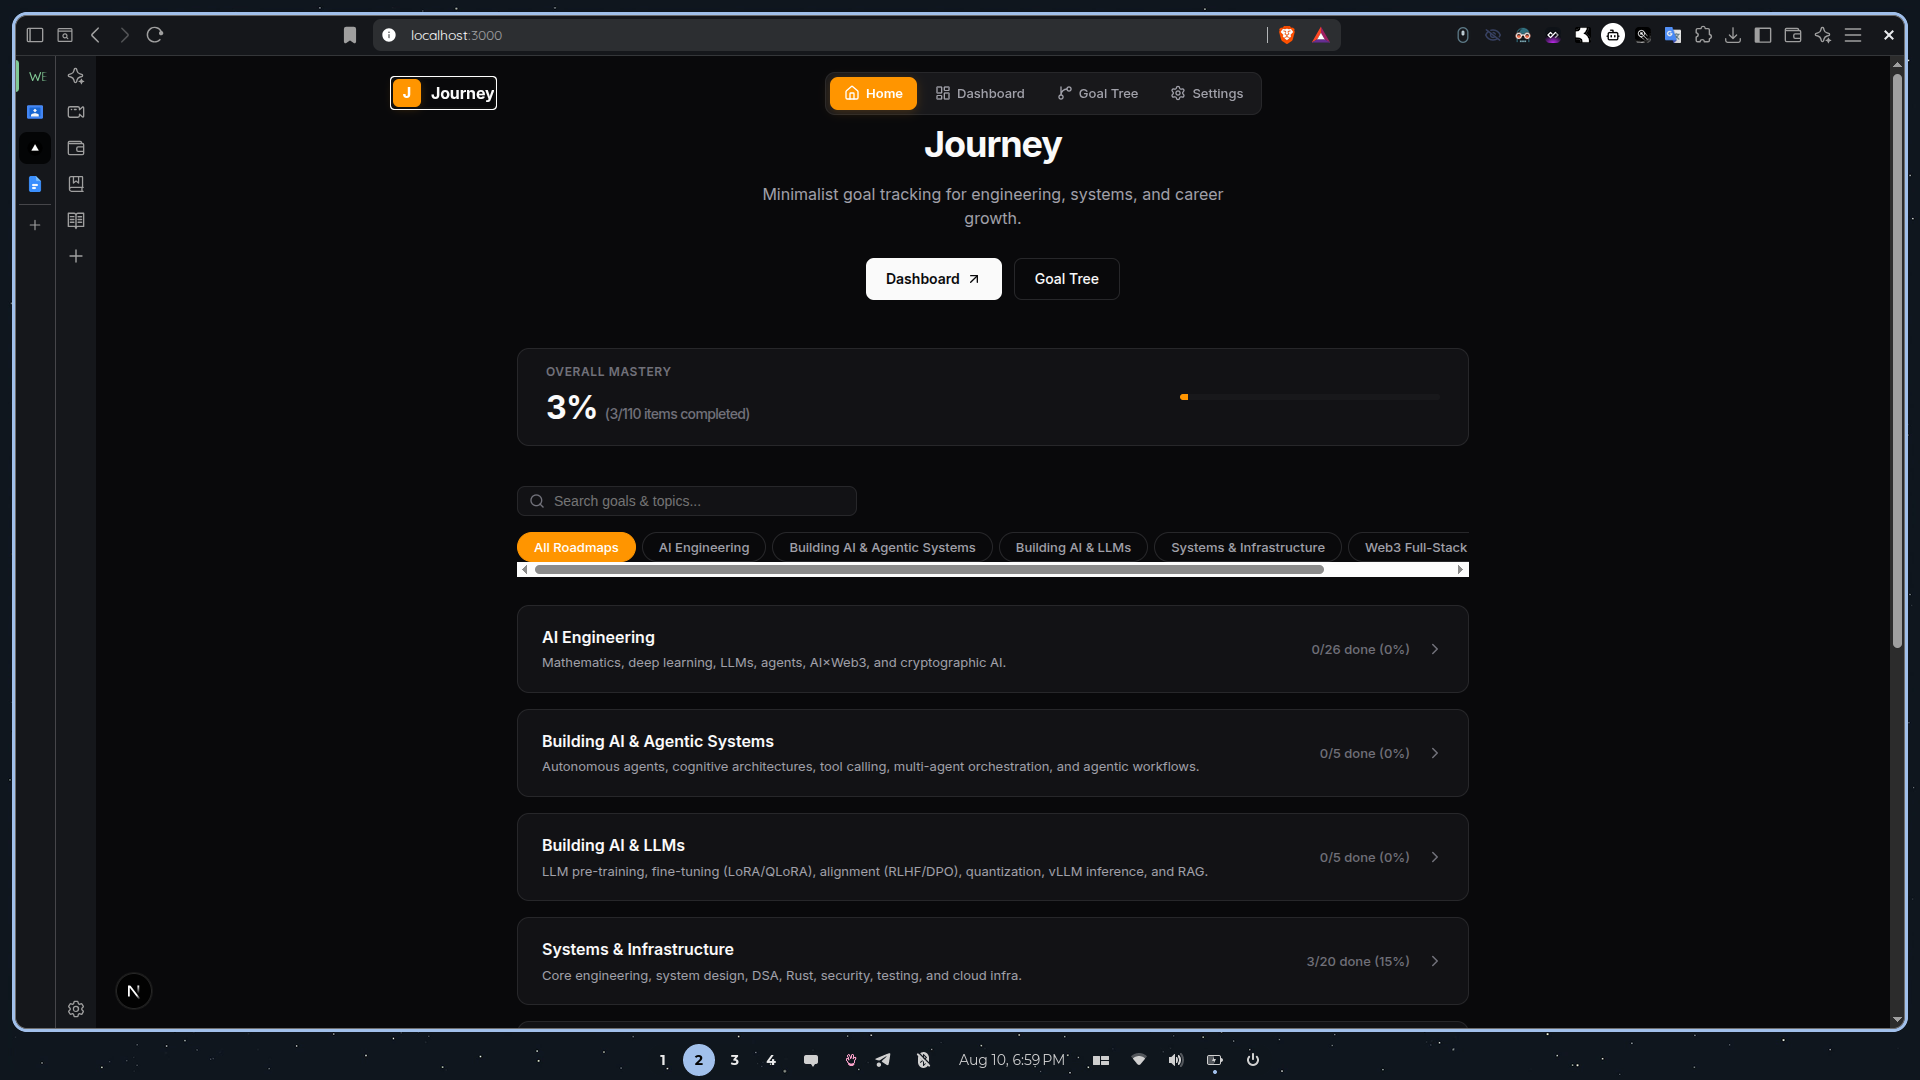
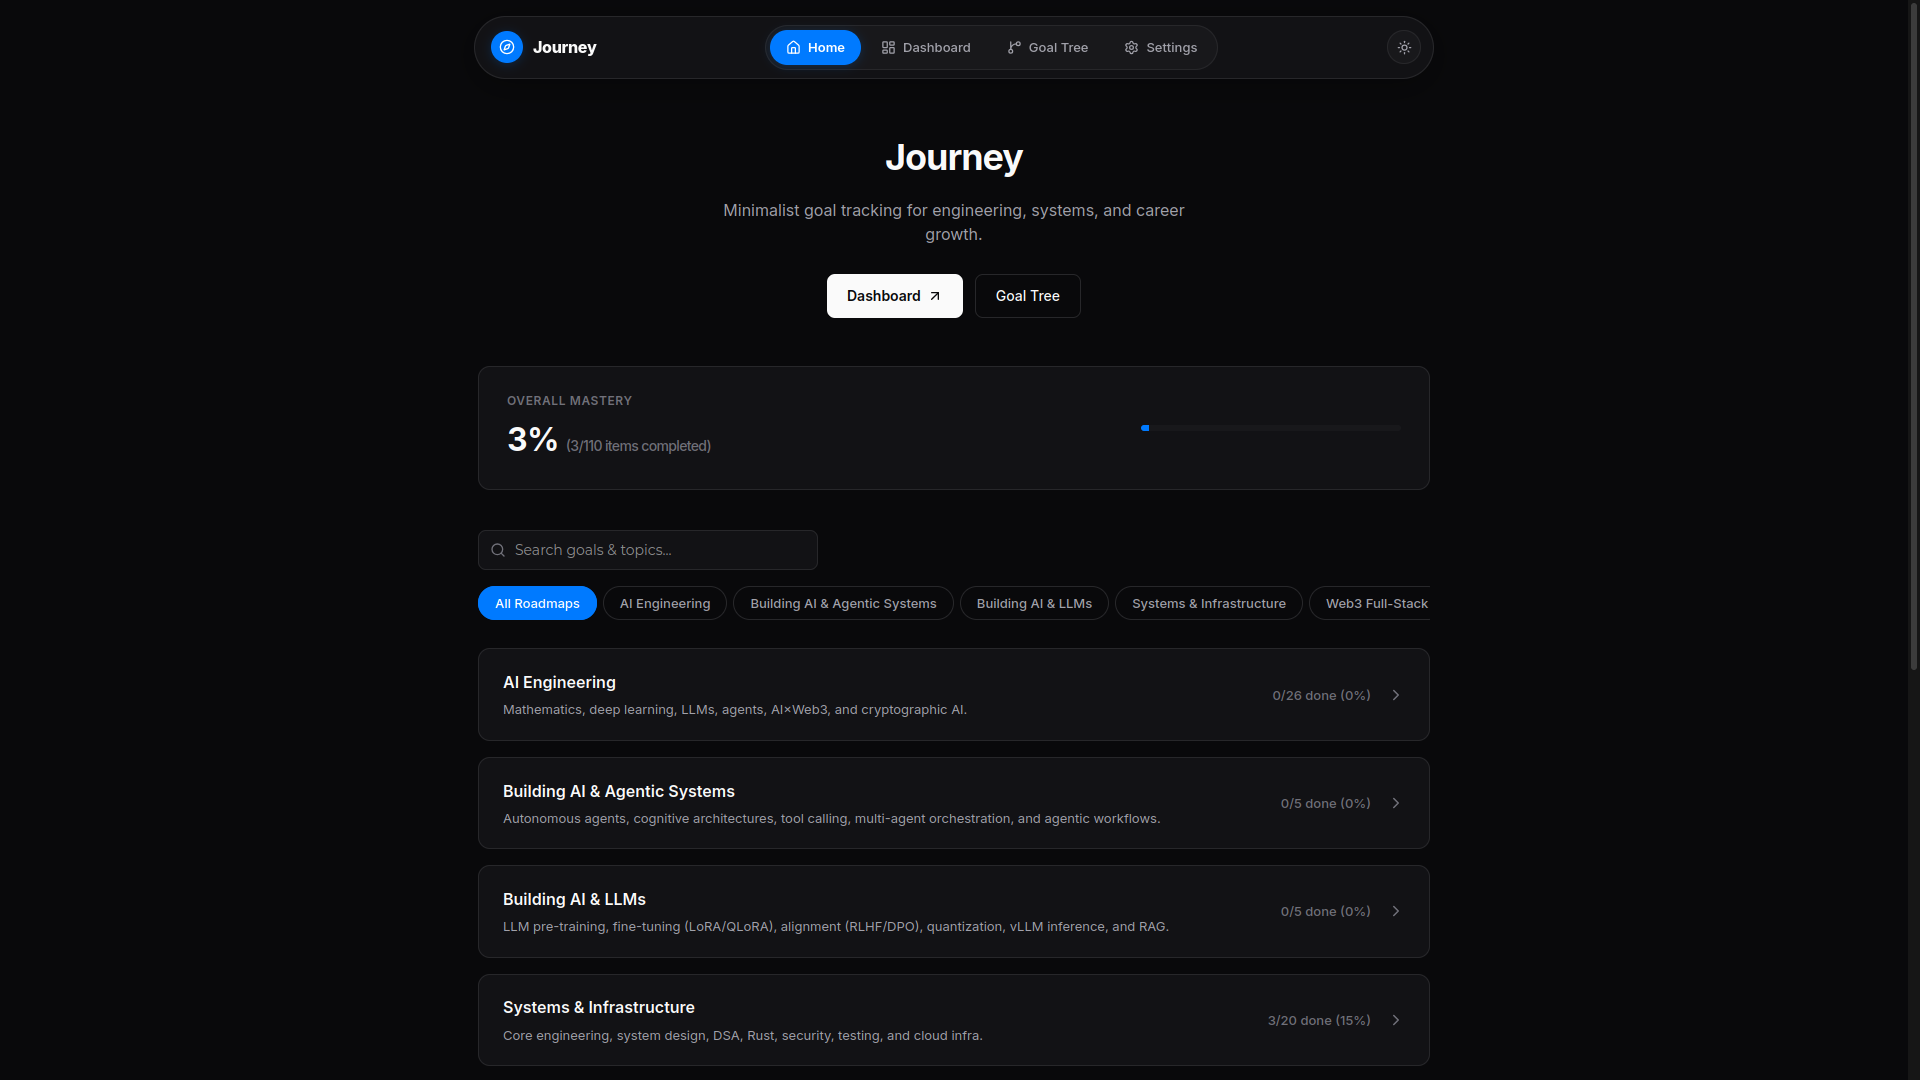
fix: dynamic luminance text contrast for light/neon accent colors

diff --git a/src/context/ConfigContext.tsx b/src/context/ConfigContext.tsx
@@ -7,6 +7,17 @@ const ConfigContext = createContext<{
   updateConfig: (newPrefs: UserPreferences) => void;
 } | undefined>(undefined);
 
+function getContrastColor(hexColor: string): string {
+  if (!hexColor) return "#FFFFFF";
+  const hex = hexColor.replace("#", "");
+  if (hex.length !== 6) return "#FFFFFF";
+  const r = parseInt(hex.substring(0, 2), 16);
+  const g = parseInt(hex.substring(2, 4), 16);
+  const b = parseInt(hex.substring(4, 6), 16);
+  const yiq = (r * 299 + g * 587 + b * 114) / 1000;
+  return yiq >= 135 ? "#09090B" : "#FFFFFF";
+}
+
 export const ConfigProvider = ({ children }: { children: React.ReactNode }) => {
   const [prefs, setPrefs] = useState<UserPreferences>({});
 
@@ -41,8 +52,11 @@ export const ConfigProvider = ({ children }: { children: React.ReactNode }) => {
       root.setAttribute("data-density", config.ui.density || "comfortable");
 
       const accent = config.ui.accentColor || "#007aff";
+      const accentFg = getContrastColor(accent);
       root.style.setProperty("--accent", accent);
       root.style.setProperty("--accent-color", accent);
+      root.style.setProperty("--accent-fg", accentFg);
+      root.style.setProperty("--accent-foreground", accentFg);
       root.style.setProperty("--accent-glow", `${accent}33`);
       root.style.setProperty("--accent-dim", `${accent}1A`);
     }

diff --git a/src/app/page.tsx b/src/app/page.tsx
@@ -216,11 +216,11 @@ export default function Home() {
                 padding: "8px 16px",
                 borderRadius: "20px",
                 fontSize: "13px",
-                fontWeight: "500",
                 border: "1px solid",
                 borderColor: selectedTrack === track ? "var(--accent)" : "var(--border-color)",
                 background: selectedTrack === track ? "var(--accent)" : "transparent",
-                color: selectedTrack === track ? "#ffffff" : "var(--text-secondary)",
+                color: selectedTrack === track ? "var(--accent-fg)" : "var(--text-secondary)",
+                fontWeight: selectedTrack === track ? "700" : "500",
                 cursor: "pointer",
                 transition: "all 0.2s ease",
                 whiteSpace: "nowrap",

diff --git a/src/app/tree/tree.module.css b/src/app/tree/tree.module.css
@@ -89,7 +89,7 @@
 
 .pencilToggleBtnActive {
   background: var(--accent);
-  color: #ffffff;
+  color: var(--accent-fg) !important;
   border-color: var(--accent);
   box-shadow: 0 4px 14px var(--accent-glow);
 }
@@ -130,9 +130,9 @@
 
 .trackTabActive {
   background: var(--accent);
-  color: #ffffff;
+  color: var(--accent-fg) !important;
   border-color: var(--accent);
-  font-weight: 600;
+  font-weight: 700;
   box-shadow: 0 2px 12px var(--accent-glow);
 }
 
@@ -191,7 +191,7 @@
 
 .layerNumber {
   background: var(--accent);
-  color: #ffffff;
+  color: var(--accent-fg) !important;
   width: 32px;
   height: 32px;
   border-radius: 8px;

diff --git a/src/components/Navigation.module.css b/src/components/Navigation.module.css
@@ -51,7 +51,7 @@
   height: 32px;
   border-radius: 50%;
   background: var(--accent);
-  color: #ffffff;
+  color: var(--accent-fg);
   display: flex;
   align-items: center;
   justify-content: center;
@@ -102,8 +102,8 @@
 
 .navItemActive {
   background: var(--accent);
-  color: #ffffff !important;
-  font-weight: 600;
+  color: var(--accent-fg) !important;
+  font-weight: 700;
   box-shadow: 0 2px 10px var(--accent-glow);
 }
 

diff --git a/src/app/globals.css b/src/app/globals.css
@@ -145,7 +145,7 @@ button {
 /* GLOBAL THEME ACCENT HELPERS */
 .accent-bg {
   background: var(--accent) !important;
-  color: #ffffff !important;
+  color: var(--accent-fg) !important;
 }
 
 .accent-text {
